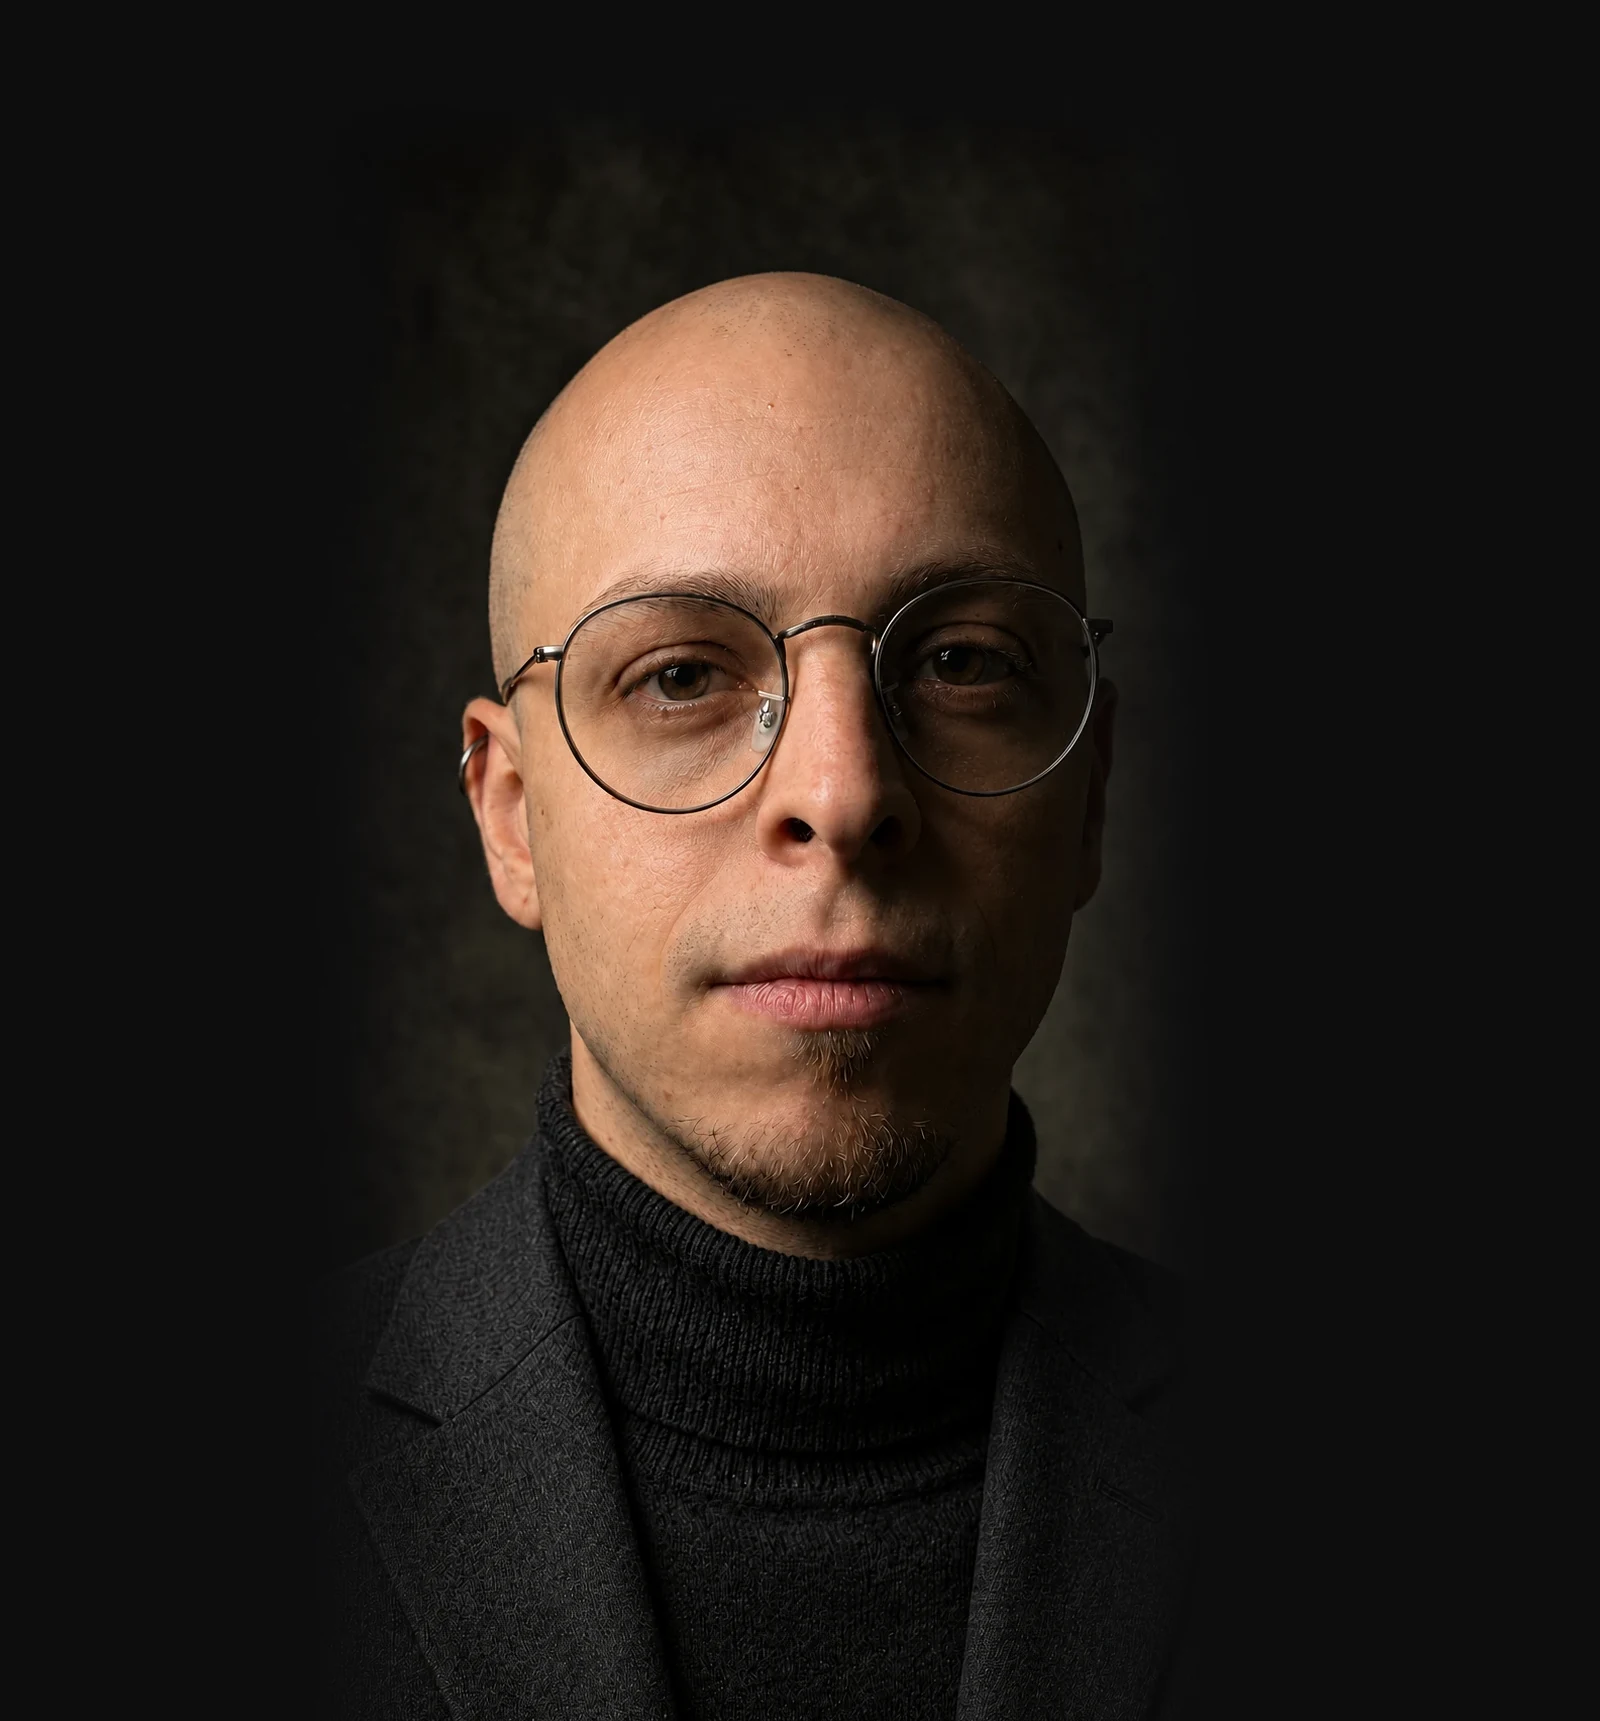
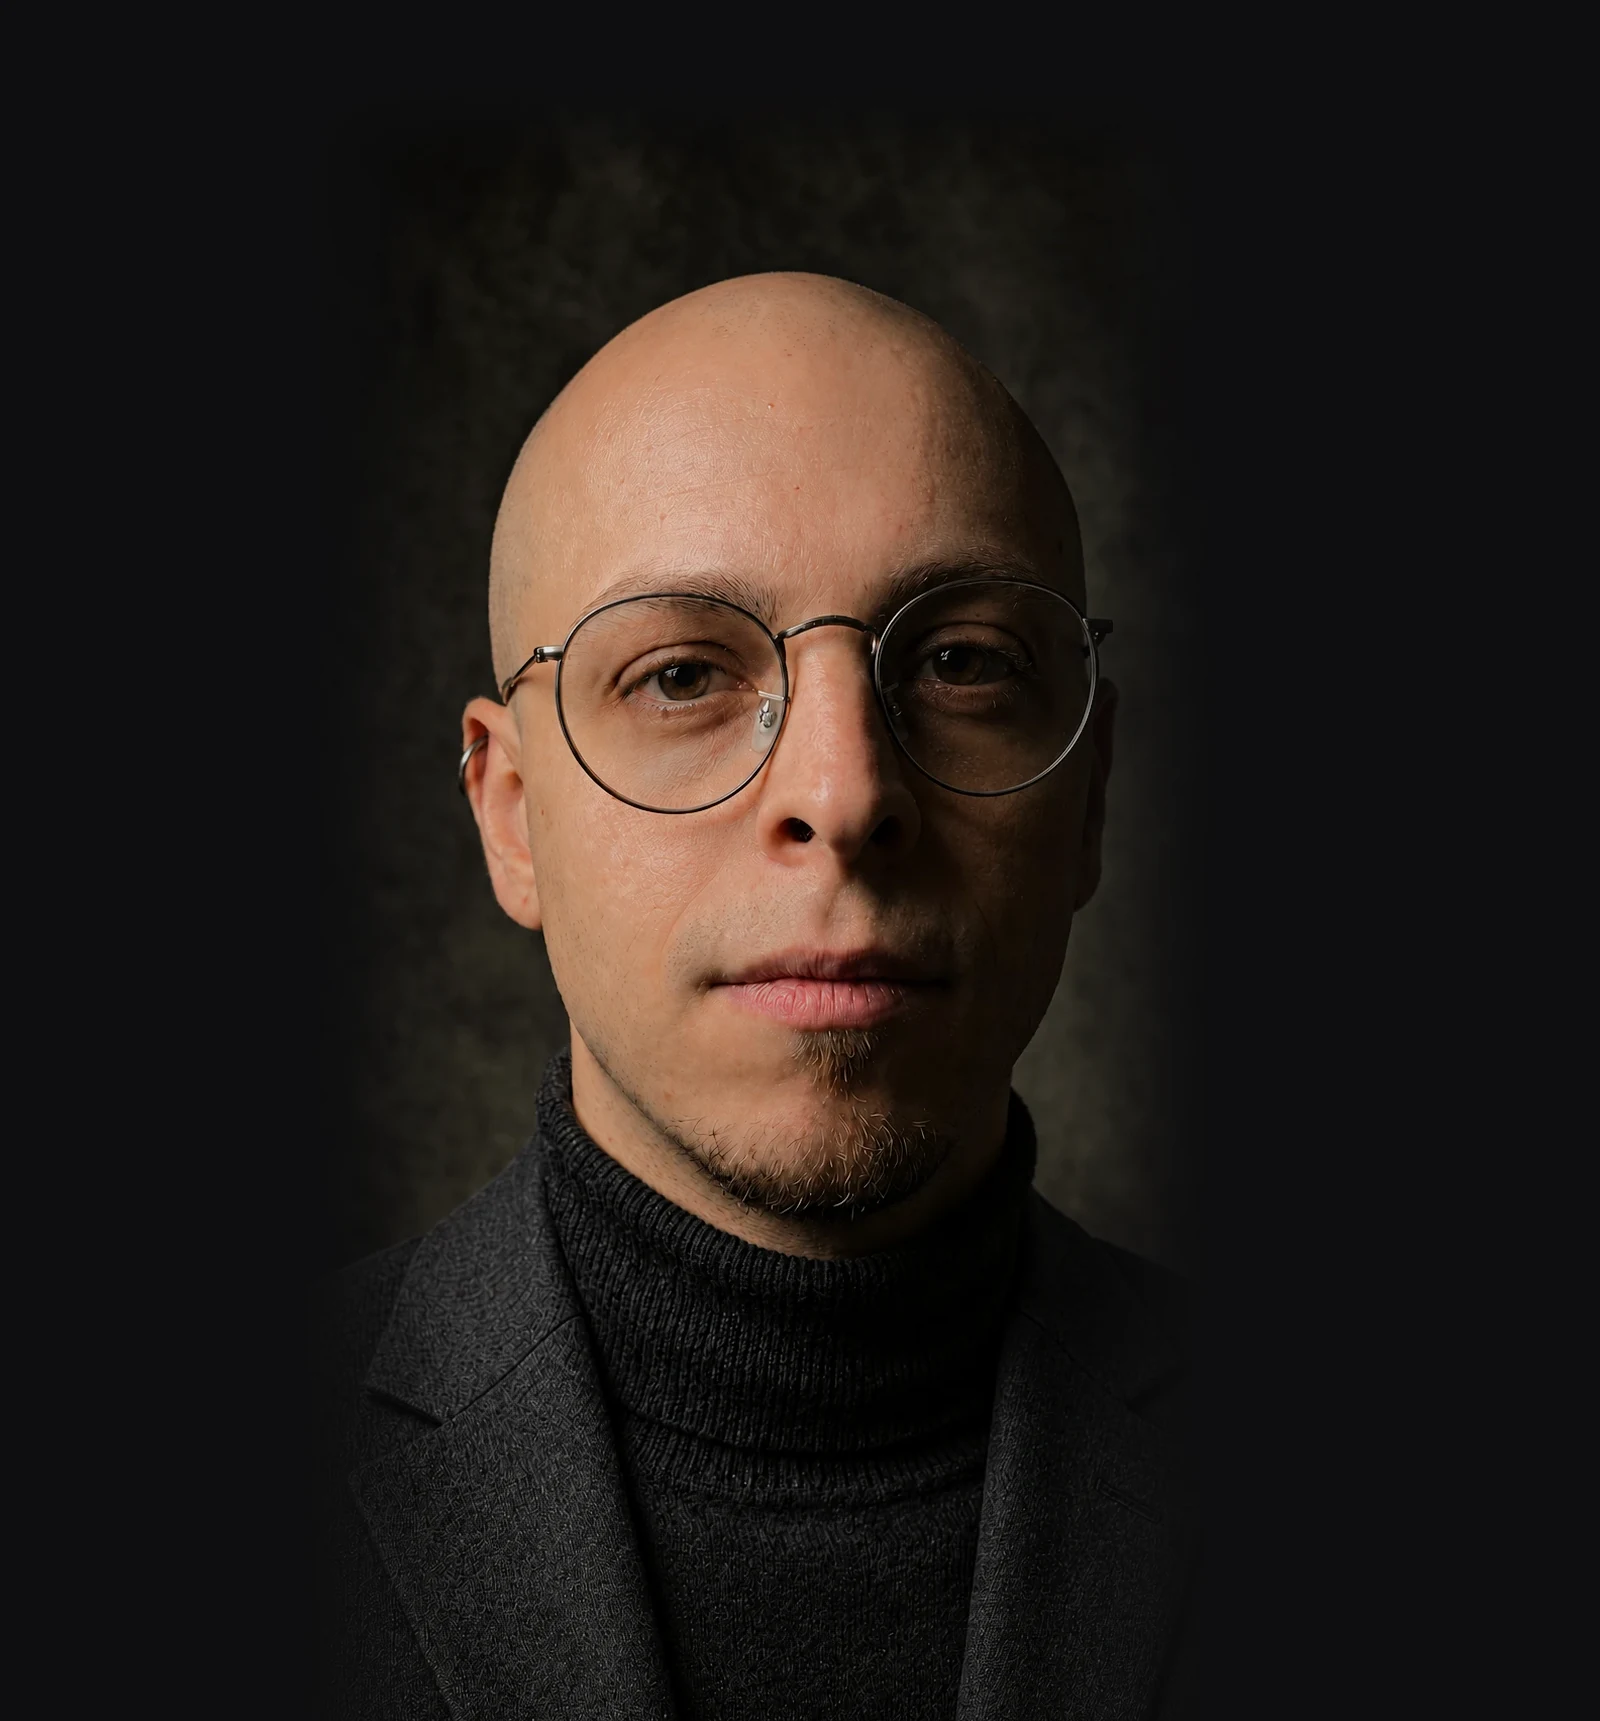
Foto in home: stesso trattamento della foto precedente (#450)
* Firma scritta a mano su nome e saluto in home

Destiny Signature (sottoinsieme latino, woff2) solo per il nome nella
barra in alto e per il saluto in home; gli altri titoli restano in
Bodoni Moda. Dimensioni e interlinea adattate perché le lettere lunghe
non tocchino il testo sotto.

Claude-Session: https://claude.ai/code/session_0117AcoAoRNxCeiVuVm8eKGz

* Saluto in home senza punto finale

Claude-Session: https://claude.ai/code/session_0117AcoAoRNxCeiVuVm8eKGz

* Home: saluto in arancione, link di testo e striscia senza blocchi laterali

- "Ciao, sono Nicolò Forcolin" nel colore d'accento.
- I due pulsanti diventano link di testo arancioni sottolineati, alti
  almeno 44px; rimosse tutte le regole .hero-btn che li servivano.
- Tolti i due rettangoli arancioni ai lati della striscia dei progetti,
  con le regole CSS e la variabile --rail-width.

Claude-Session: https://claude.ai/code/session_0117AcoAoRNxCeiVuVm8eKGz

* Skyline di Padova in fondo alle pagine interne

Disegno della città sopra la riga del piè di pagina ("Padova, Italia")
su tutte le pagine tranne la home. Firma originale ritagliata via;
il fondo quasi nero del disegno si fonde con quello del sito tramite
mix-blend-mode: lighten.

Claude-Session: https://claude.ai/code/session_0117AcoAoRNxCeiVuVm8eKGz

* Anteprima dei link con lo skyline di Padova

og:image e twitter:image di tutte le pagine puntano a og-padova.jpg
(1200x630, disegno di Padova con la firma). og-image.png resta come
[…]

Changed region(s): [[0.3125, 0.3696, 0.5312, 0.5543], [0.3125, 0.2156, 0.5, 0.3696]]

diff --git a/portfolio-redesign.css b/portfolio-redesign.css
@@ -199,7 +199,7 @@ h2,h3{font-family:var(--sans);font-weight:700;letter-spacing:-.045em}
  .hero-inner{width:100%;max-width:none;margin:0}
  .hero-photo-frame{left:auto;right:auto;margin:0;width:100%;max-width:100%;height:clamp(350px,105vw,580px);background:#17161B}
  .hero-photo-frame picture{width:100%;height:100%}
- .hero-photo-frame .hero-portrait{width:100%;height:100%;object-fit:cover;object-position:center 32%}
+ .hero-photo-frame .hero-portrait{width:100%;height:100%;object-fit:cover;object-position:center 32%;filter:brightness(1.22) contrast(1.04)}
 }
 
 /* Desktop: use one viewport-aligned rail, with a soft portrait-to-page fade. */
@@ -226,7 +226,7 @@ h2,h3{font-family:var(--sans);font-weight:700;letter-spacing:-.045em}
  .hero-photo-frame::after{
   background:linear-gradient(to right,var(--bg) 0%,rgba(23,22,27,.88) 16%,rgba(23,22,27,.28) 38%,transparent 55%),linear-gradient(to bottom,transparent 88%,rgba(23,22,27,.25) 100%);
  }
- .hero-photo-frame .hero-portrait{object-position:right center}
+ .hero-photo-frame .hero-portrait{object-position:right center;filter:brightness(1.15) contrast(1.04)}
 }
 
 /* Desktop final: progressive feathering around the portrait, not over the face. */

diff --git a/index.html b/index.html
@@ -96,9 +96,9 @@
     <div class="hero-photo-frame">
       <a class="scroll-btn" href="#hero-name"><span data-i18n="scroll_btn">Entra nel sito</span><svg viewBox="0 0 16 16" width="16" height="16" fill="none" stroke="currentColor" stroke-width="1.75" stroke-linecap="round" stroke-linejoin="round" aria-hidden="true" focusable="false"><path d="M8 2.5v11M3.5 9 8 13.5 12.5 9"/></svg></a>
       <picture>
-        <source media="(max-width:700px)" srcset="photo-mobile.webp?v=22" type="image/webp">
-        <source srcset="photo.webp?v=22" type="image/webp">
-        <img class="hero-portrait" id="avatarPhoto" src="photo.webp?v=22" alt="Nicolò Forcolin" width="4000" height="1696" fetchpriority="high">
+        <source media="(max-width:700px)" srcset="photo-mobile.webp?v=23" type="image/webp">
+        <source srcset="photo.webp?v=23" type="image/webp">
+        <img class="hero-portrait" id="avatarPhoto" src="photo.webp?v=23" alt="Nicolò Forcolin" width="4000" height="1696" fetchpriority="high">
       </picture>
     </div>
   </div>

diff --git a/tests/site-regression.test.js b/tests/site-regression.test.js
@@ -69,8 +69,8 @@ assert(home.includes('id="heroIntro"'), 'Hero intro paragraph missing');
 for (const language of ['it', 'en']) assert(dictionaries[language].includes('hero_intro:'), language + ': hero intro missing');
 assert(home.includes('data-i18n="skip_to_content"'), 'Skip link must be translated');
 assert(home.includes('class="hero-filmstrip"'), 'Hero filmstrip must link to the real pages');
-assert(home.includes('srcset="photo.webp?v=22"'), 'New portrait must be displayed');
-assert(home.includes('srcset="photo-mobile.webp?v=22"'), 'Mobile portrait crop must be displayed');
+assert(home.includes('srcset="photo.webp?v=23"'), 'New portrait must be displayed');
+assert(home.includes('srcset="photo-mobile.webp?v=23"'), 'Mobile portrait crop must be displayed');
 assert(!home.includes('class="info-dialog"'), 'Project dialogs were replaced by pages');
 
 assert(read('rag-aziendale.html').includes('data-i18n="c1_summary"'), 'RAG summary must remain');
